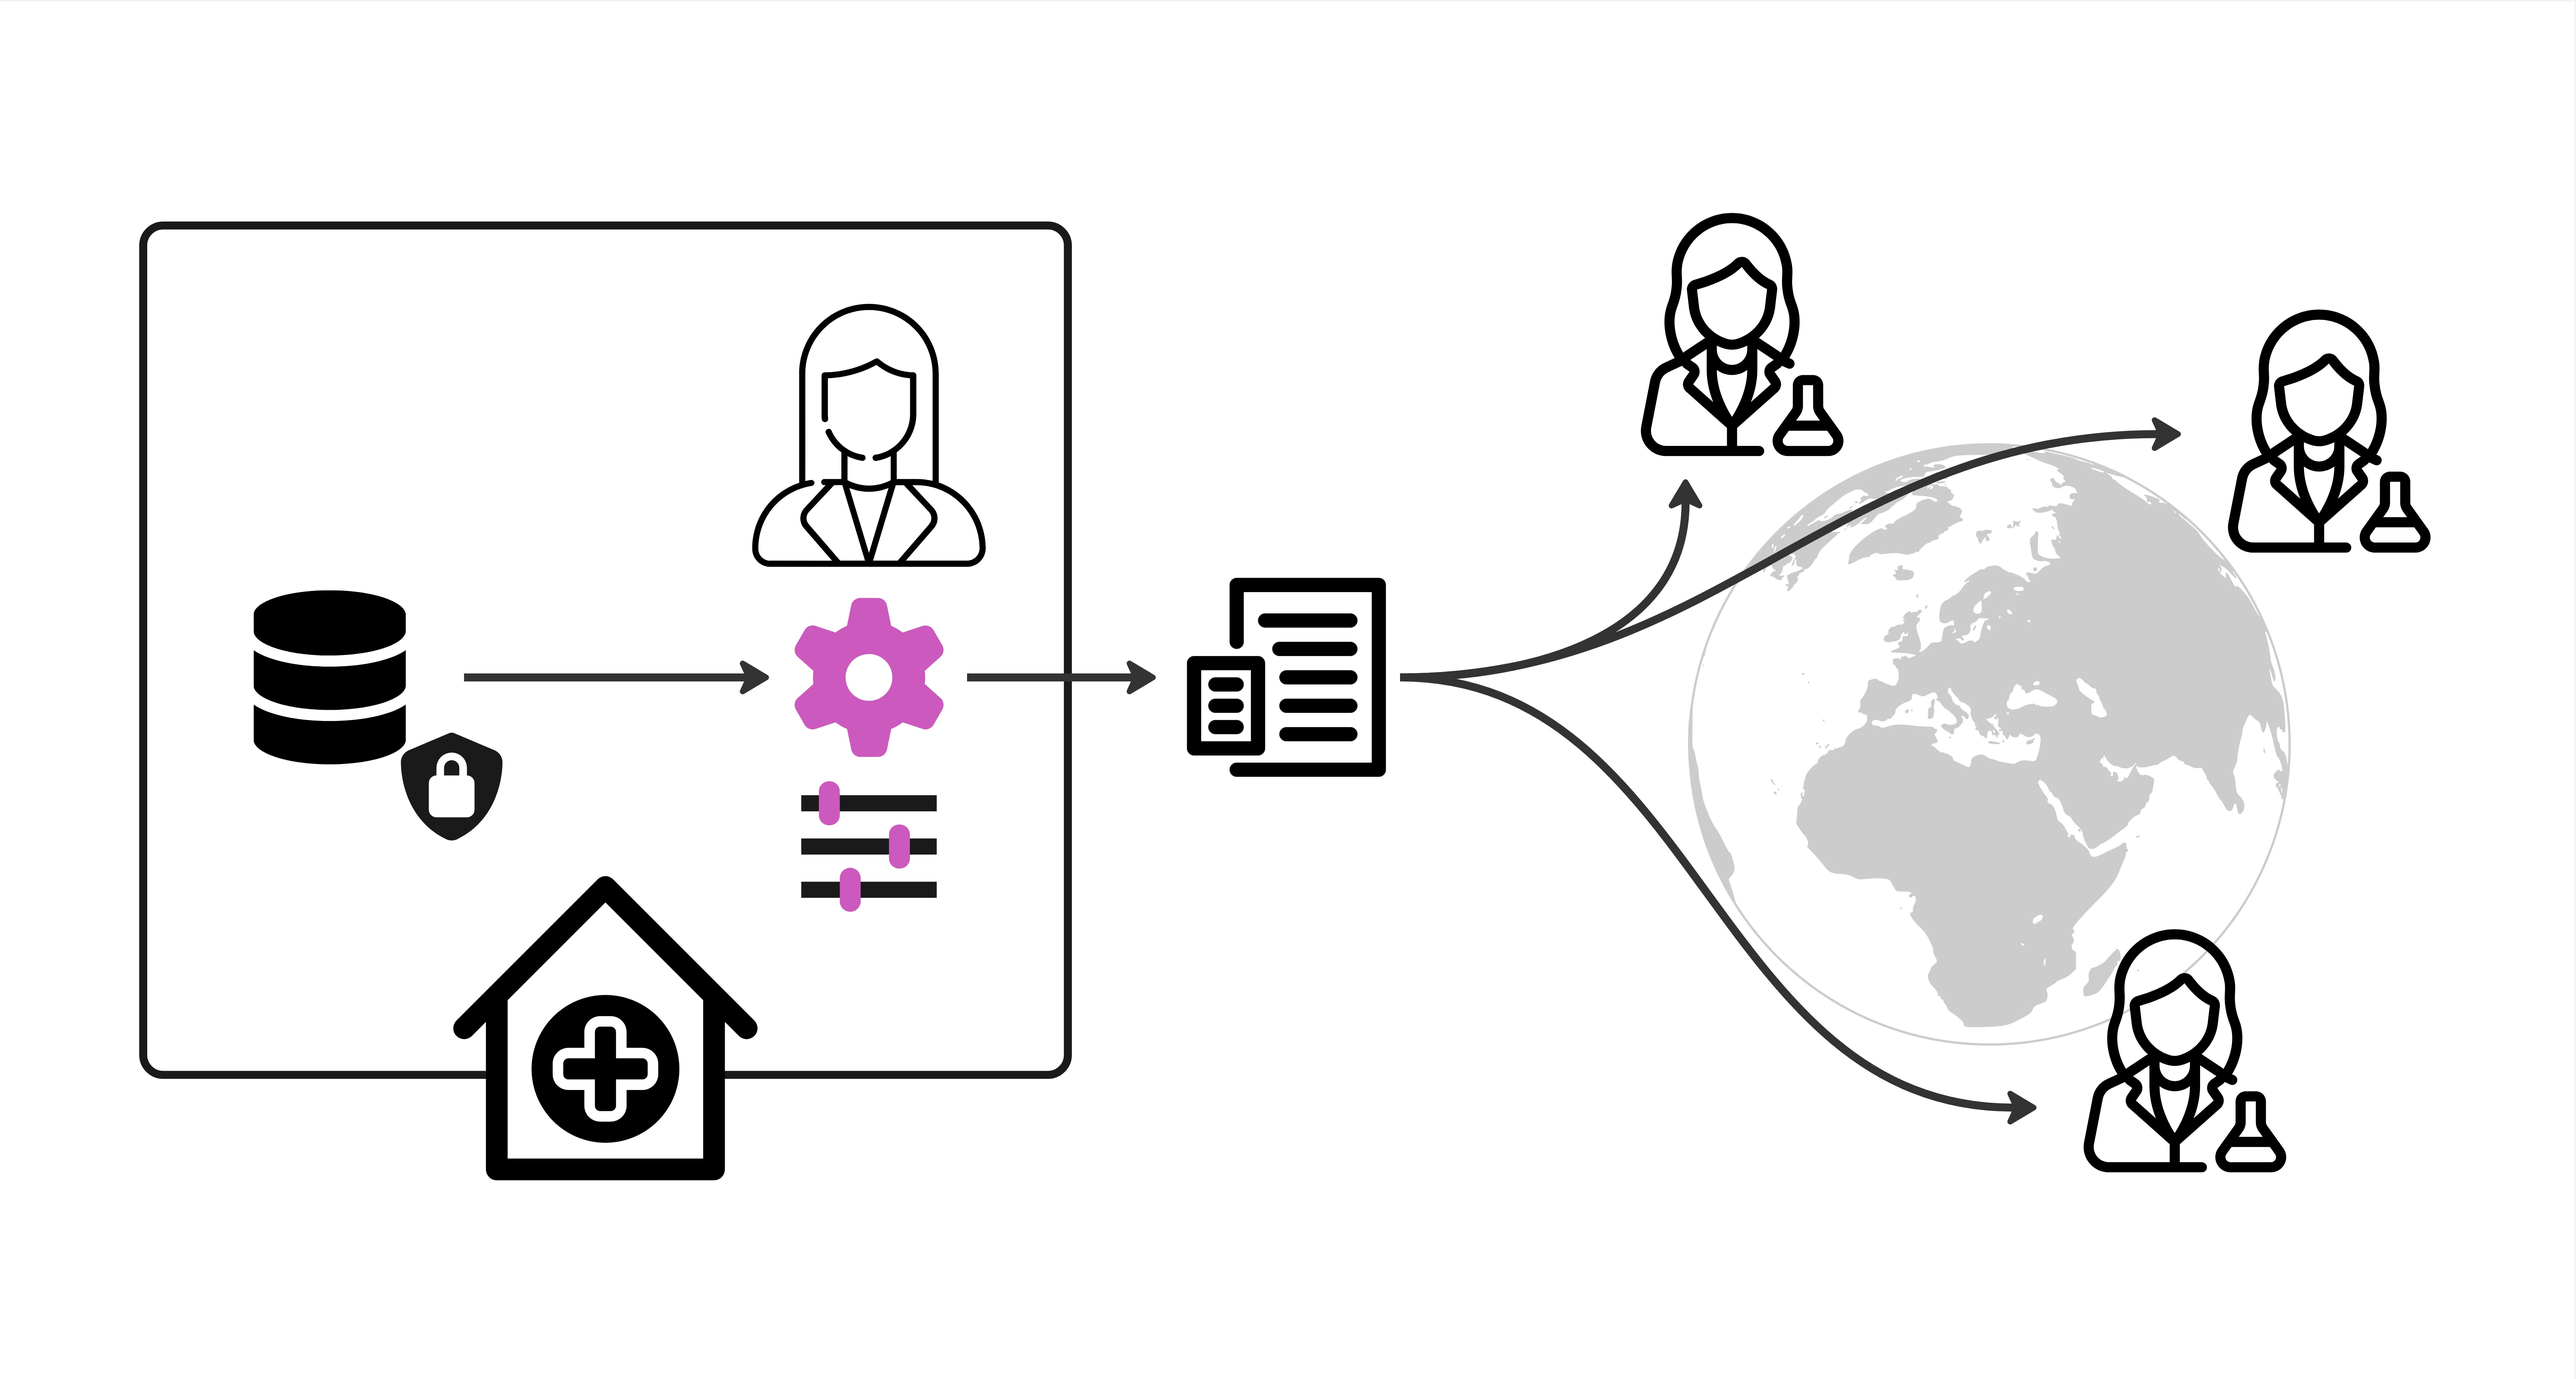
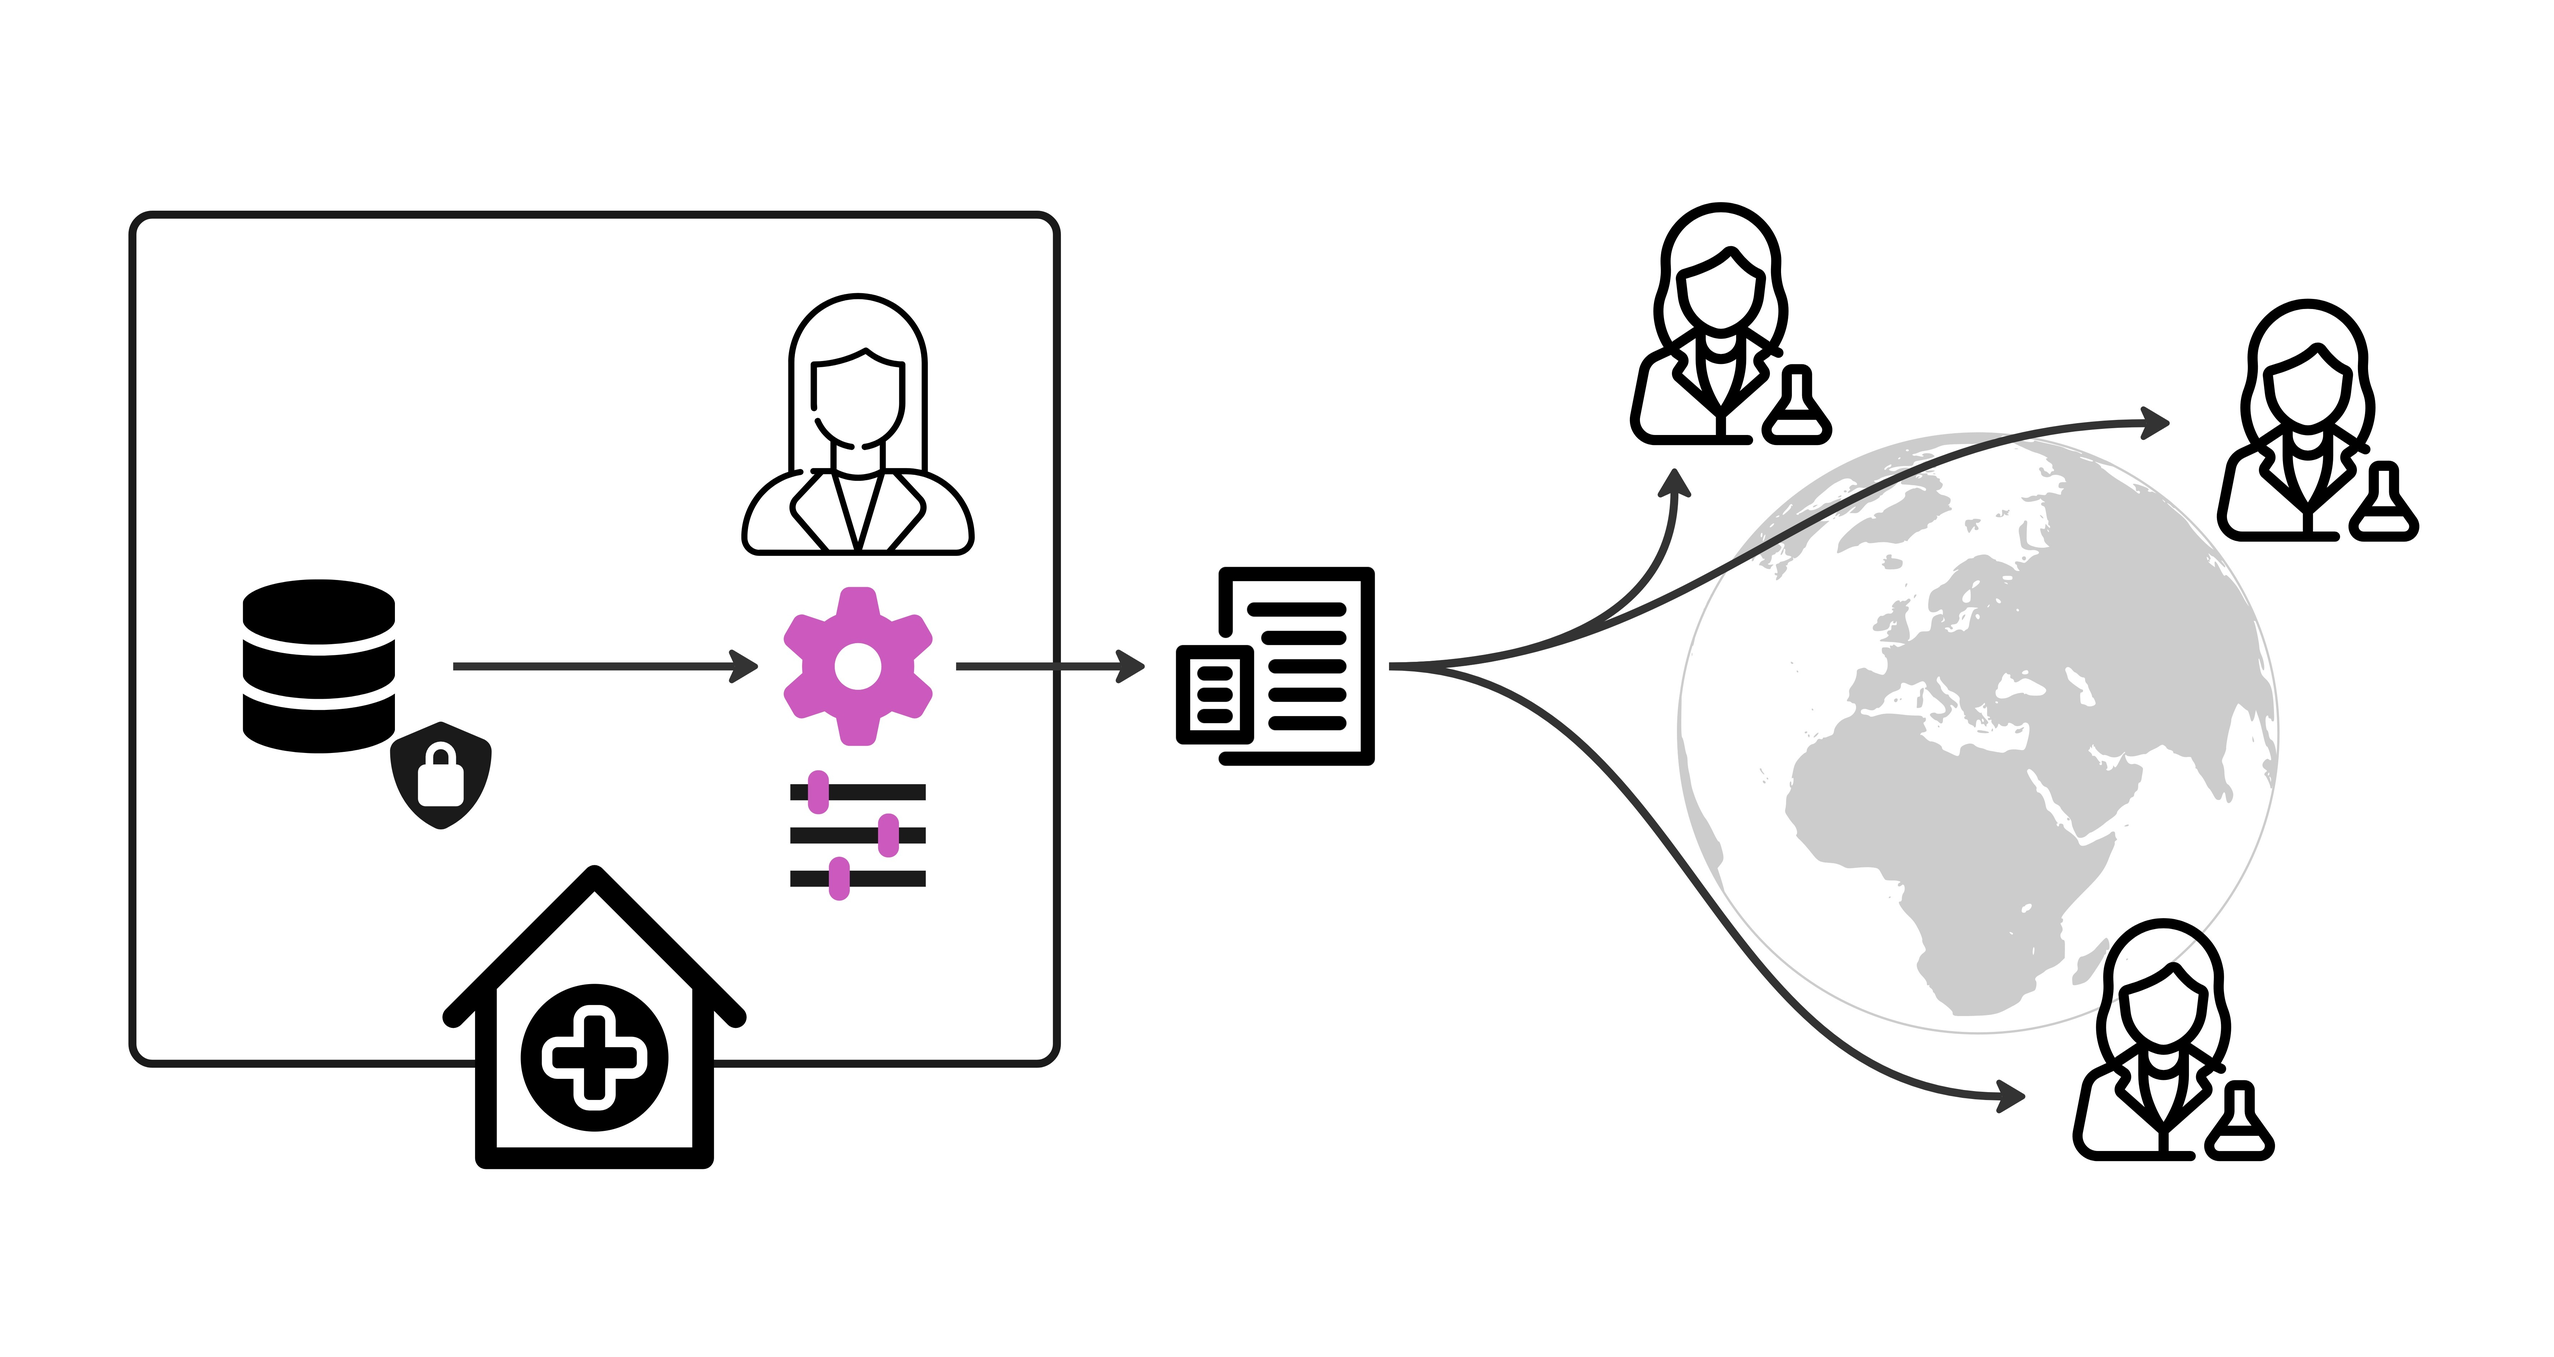
fix: update use case figures

diff --git a/docs/overrides/home.html b/docs/overrides/home.html
@@ -110,7 +110,7 @@
                             access the data no matter where it lives, all in one place.</p>
                     </div>
                     <div class="w-full lg:w-1/2 flex justify-center">
-                        <img src="assets/img/use_case_find_subject_level_data.svg" alt="Use Case 2"
+                        <img src="assets/img/use_case_find_subject_level_data.jpg" alt="Use Case 2"
                             class="w-full h-auto object-contain">
                     </div>
                 </div>
